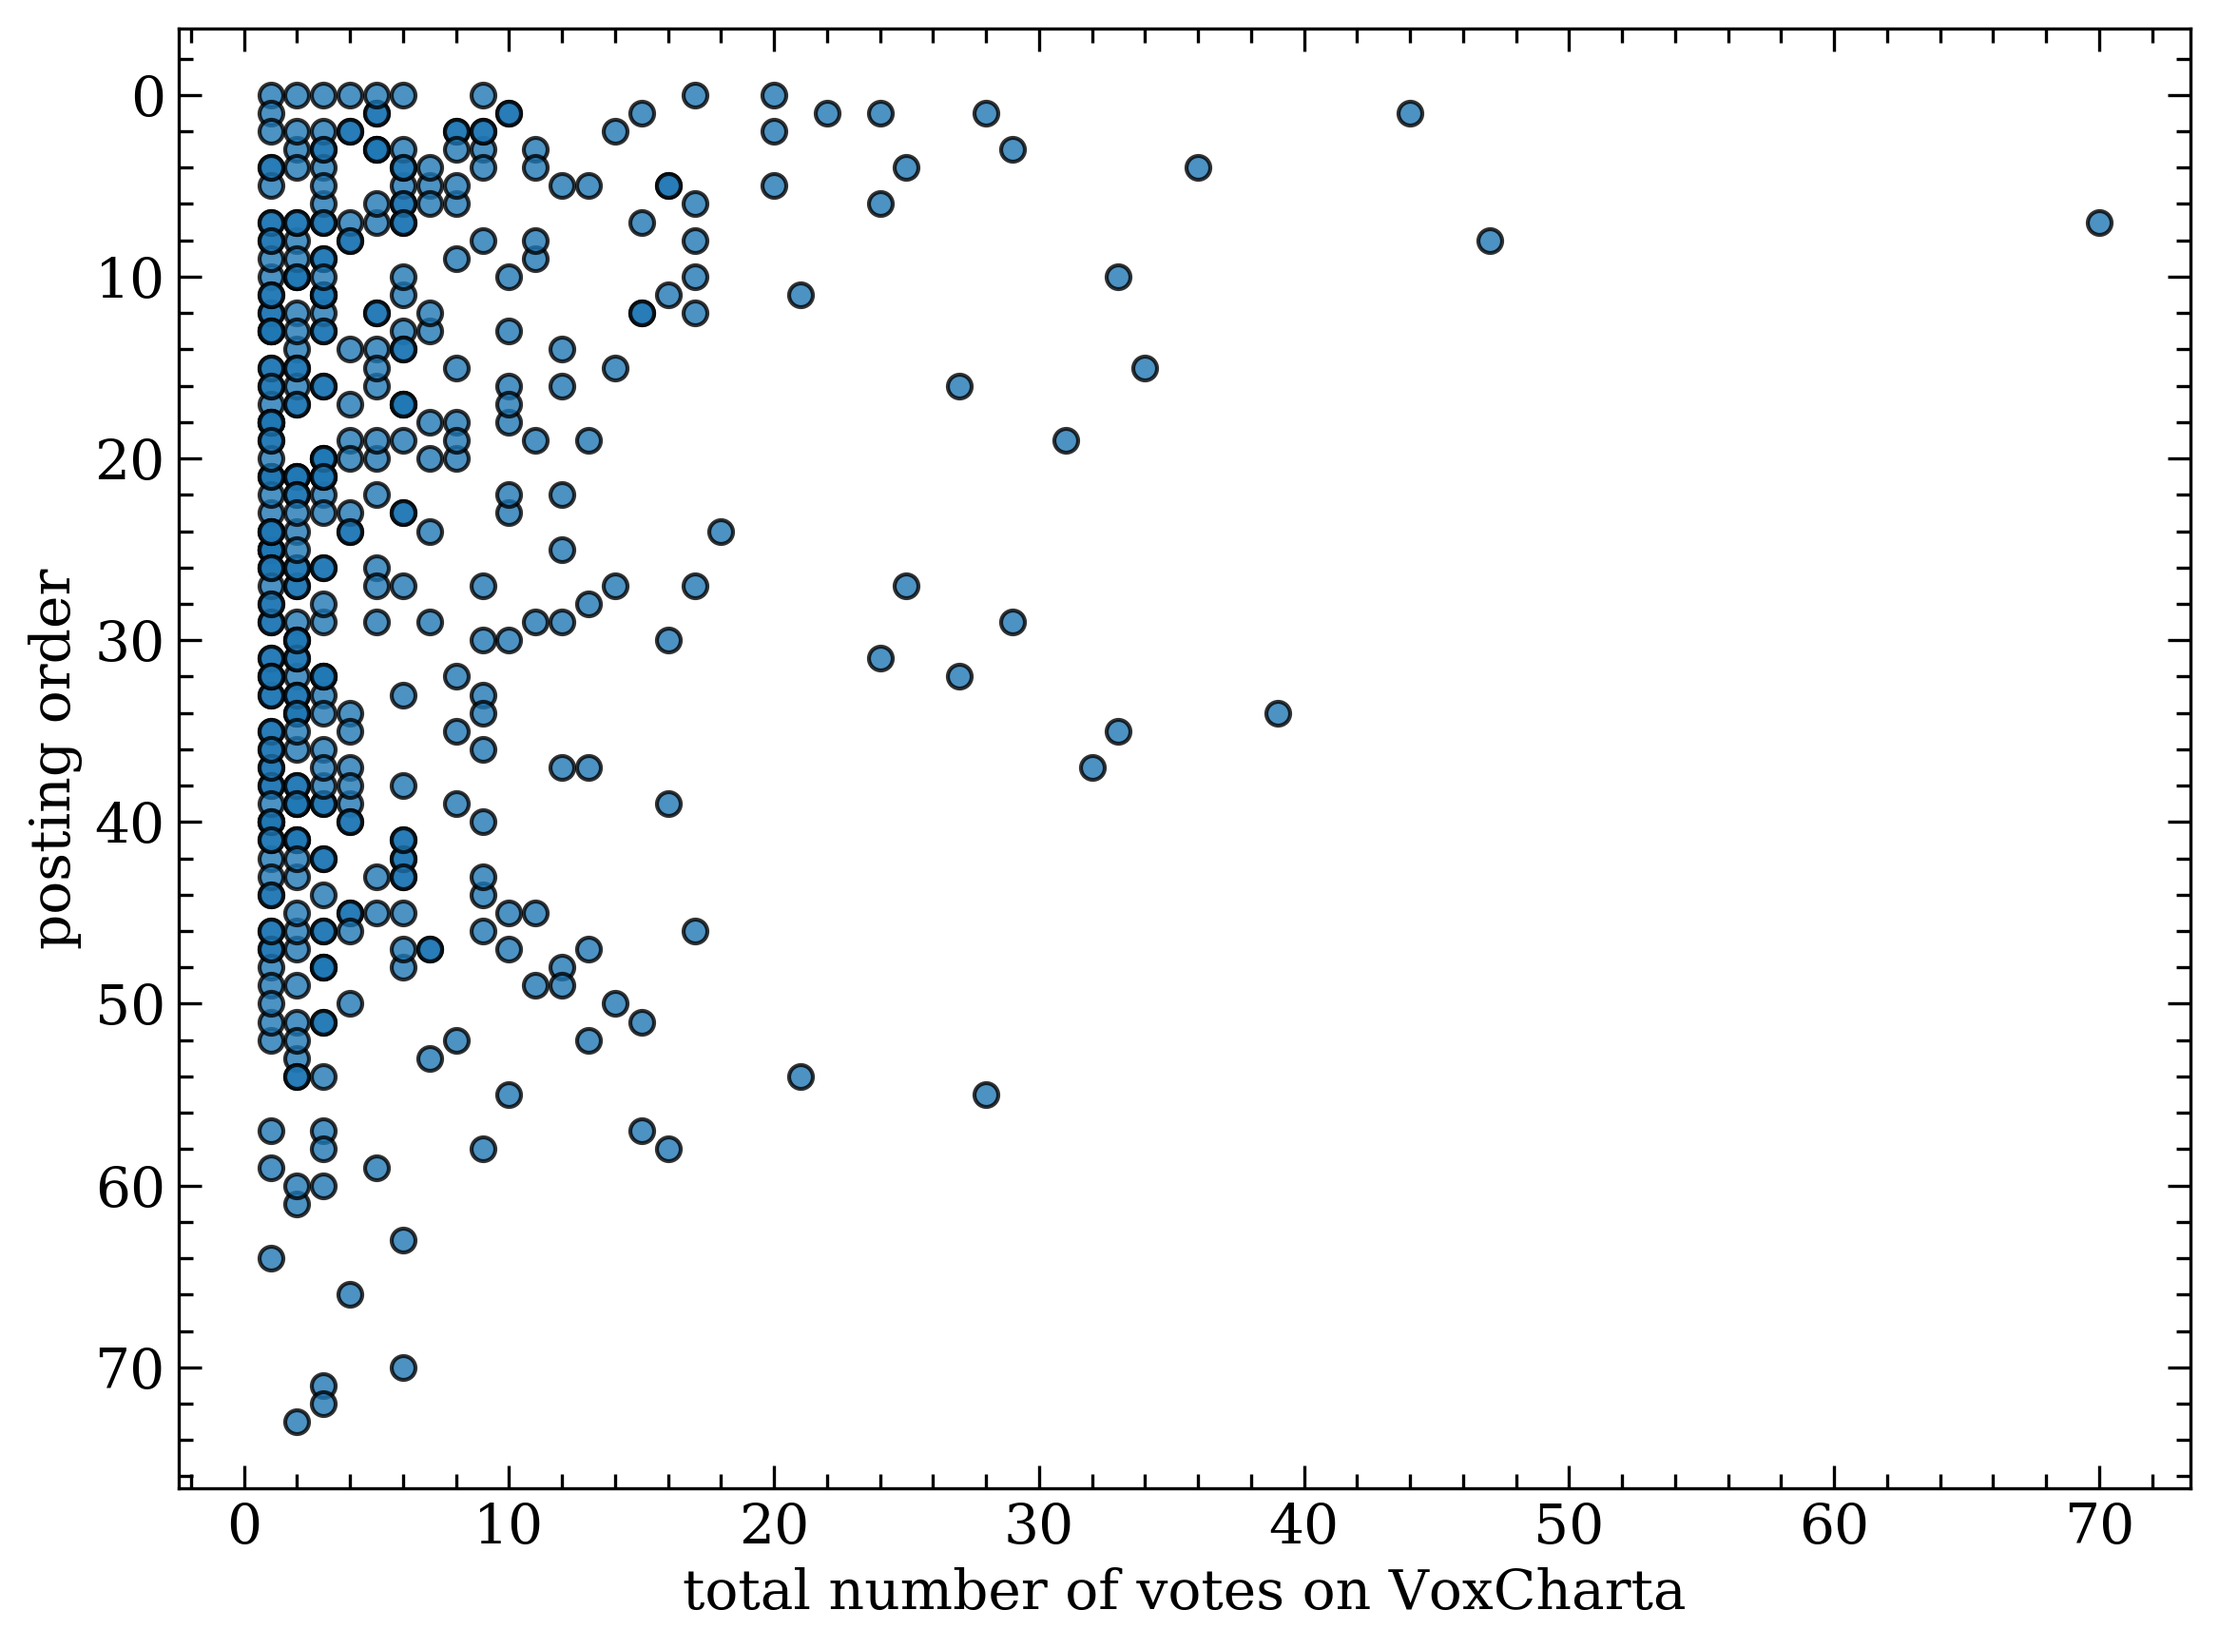
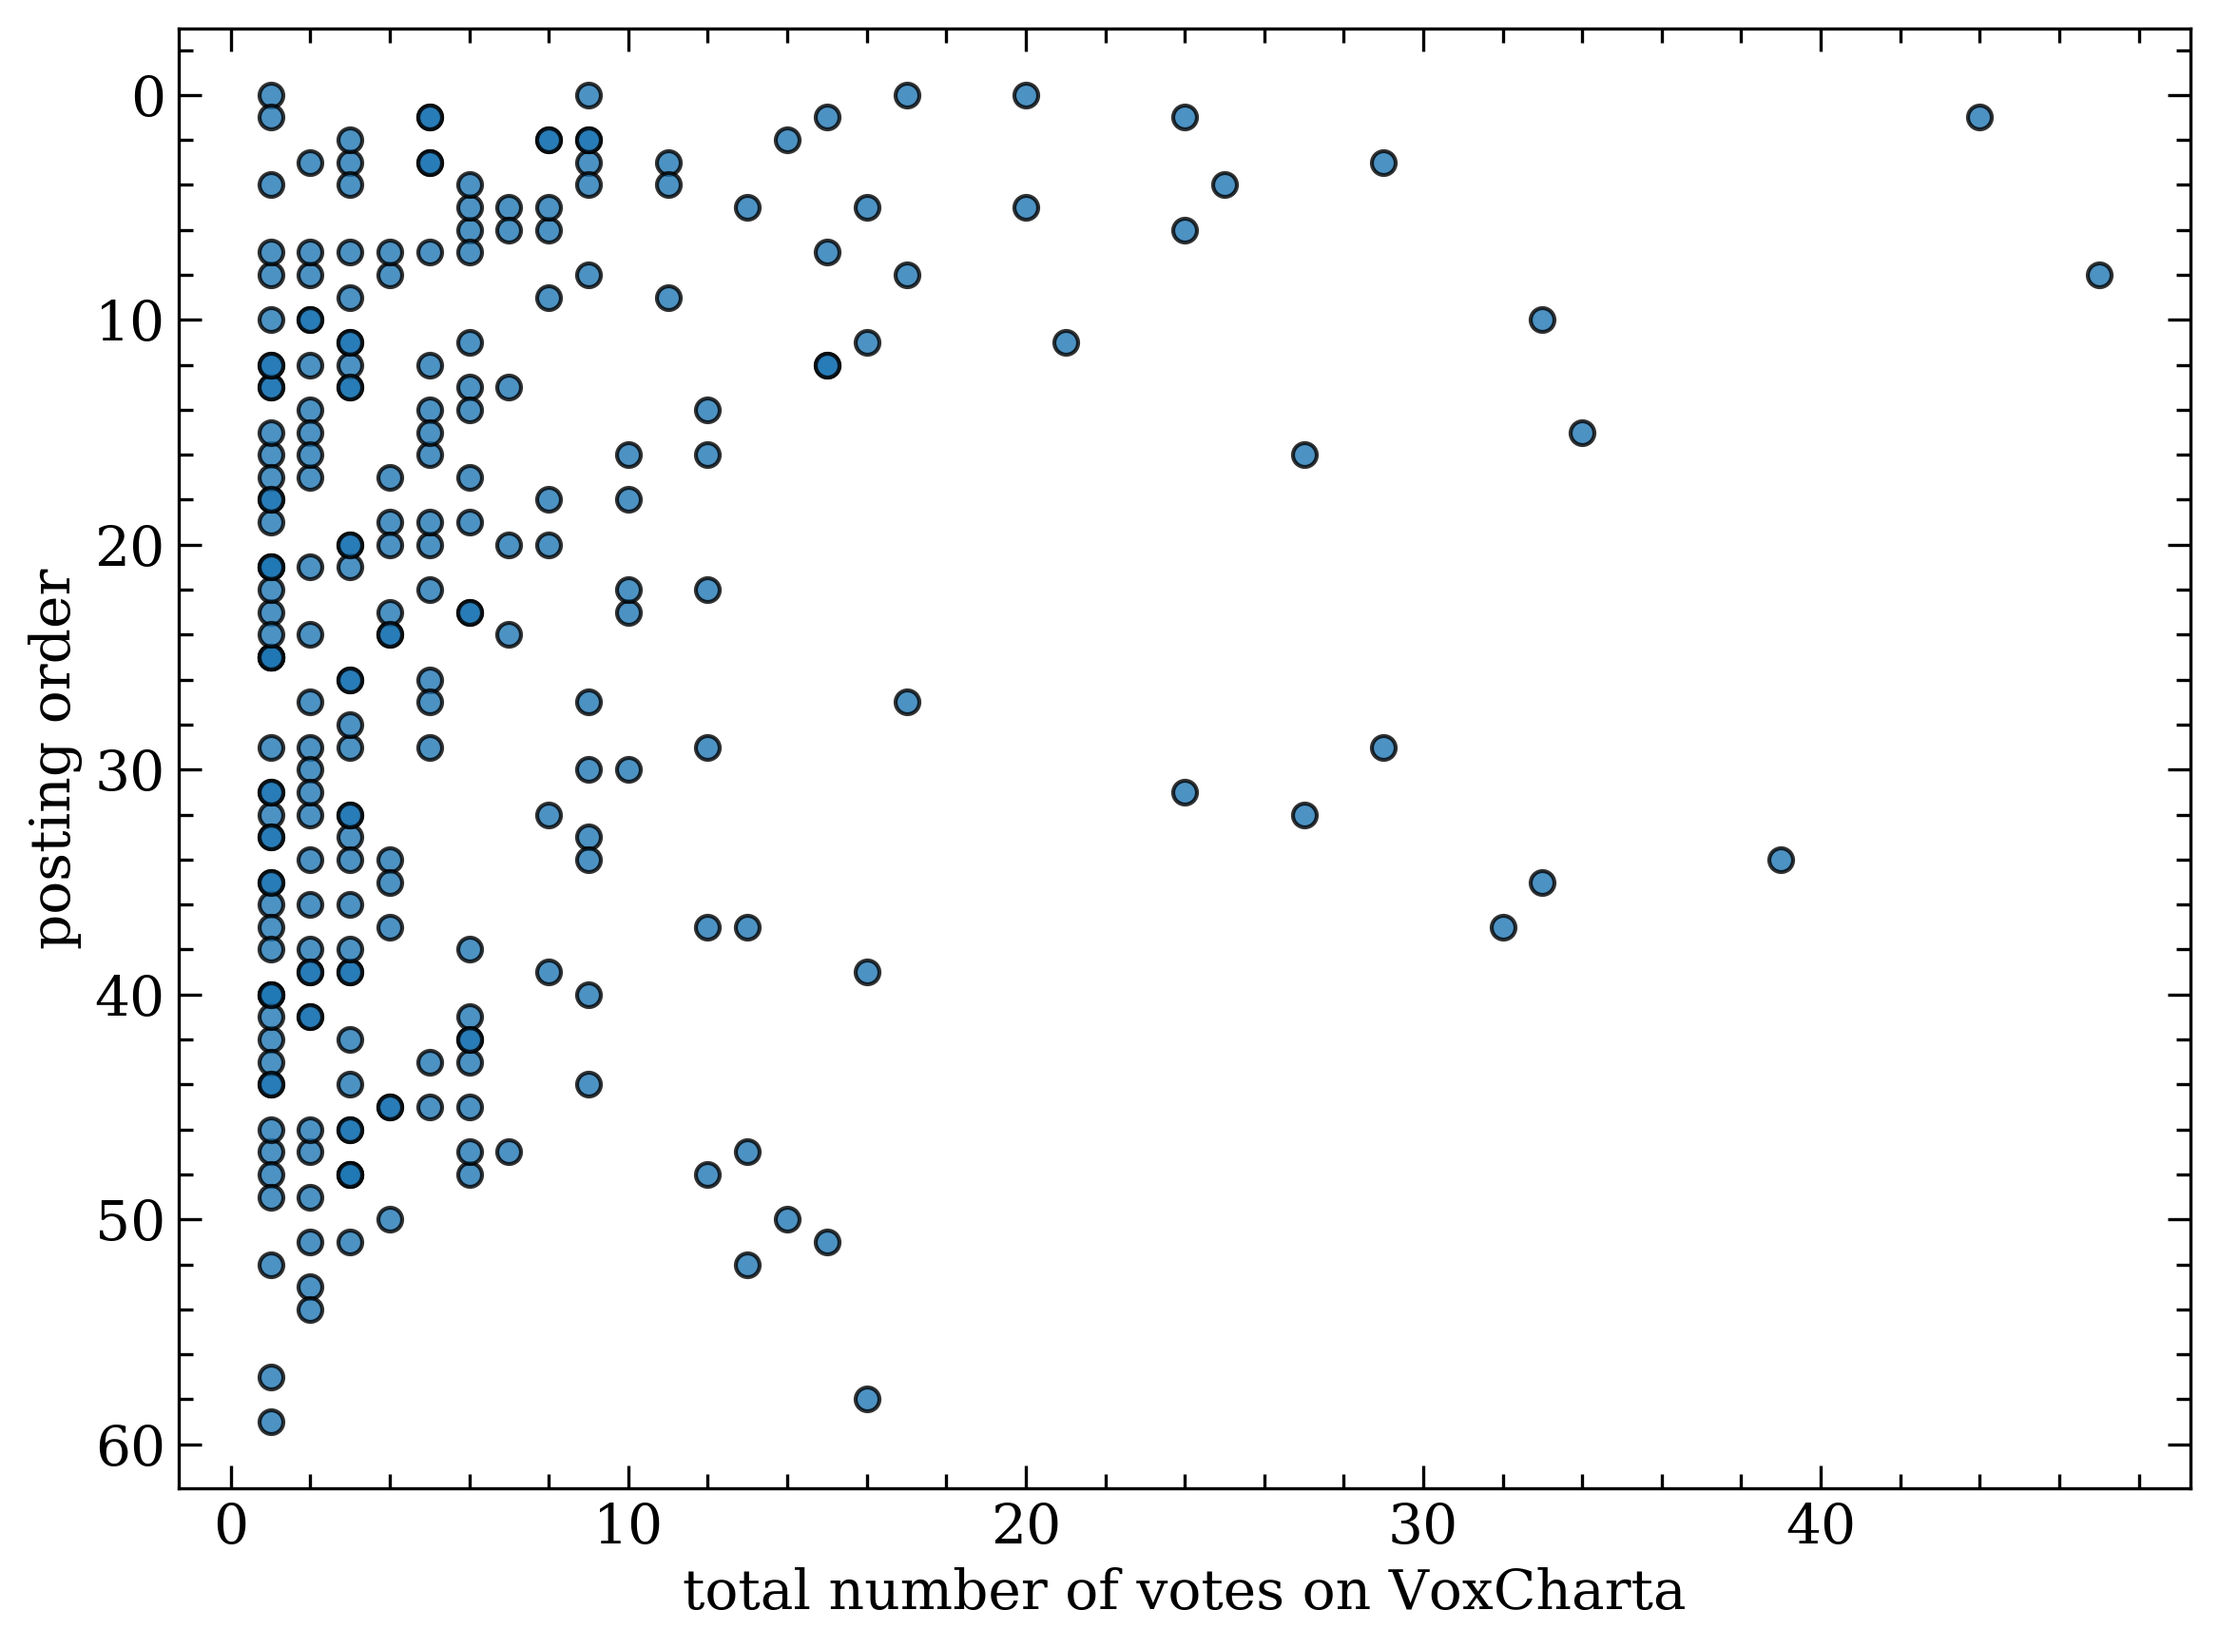
looking at voting history for one post

diff --git a/plotting_total_votes_per_order.py b/plotting_total_votes_per_order.py
@@ -7,6 +7,8 @@ Future plans:	color points by submission window (Mon-Fri)
 import pandas as pd
 import numpy as np
 import matplotlib.pyplot as plt
+from datetime import timedelta
+from datetime import datetime as dt
 
 __author__ = 'Taylor Hutchison'
 __email__ = 'aibhleog@tamu.edu'
@@ -17,10 +19,26 @@ post_df = pd.read_csv('arXiv_posts.txt',sep='\t',dtype=df_dtypes) # main table o
 df_dtypes = {'id':str,'total_votes':int,'vote_rate':str}
 votes_df = pd.read_csv('VoxCharta_voting.txt',sep='\t',dtype=df_dtypes)
 
-indexing = votes_df.query('total_votes > 0').index.values
+# -- only looking at posts over 1 week old -- #
+# ------------------------------------------- #
+times = [dt.strptime(t,'%d %b %y') for t in post_df.date.values]
+times = np.asarray(times) # useful for the sorting we'll do 
+
+# reference date of 1 week ago
+ref_date = dt.now() - timedelta(days=7)
+print(f"Looking at posts from {dt.strftime(ref_date,'%a, %d %b %y')} and before.",end='\n\n')
+
+indexing = np.arange(len(post_df)) 
+indexing = indexing[times < ref_date] # only listing entries in the dataframe that are over 1 week old
+
+old_posts = post_df.loc[indexing.tolist()].copy()
+old_votes = votes_df.loc[indexing.tolist()].copy()
+# ------------------------------------------- #
+
+indexing = old_votes.query('total_votes > 0').index.values
 
 plt.figure()
-plt.scatter(votes_df.loc[indexing,'total_votes'],post_df.loc[indexing,'order'],\
+plt.scatter(old_votes.loc[indexing,'total_votes'],old_posts.loc[indexing,'order'],\
 		edgecolor='k',alpha=0.8)
 
 ylims = plt.ylim()
